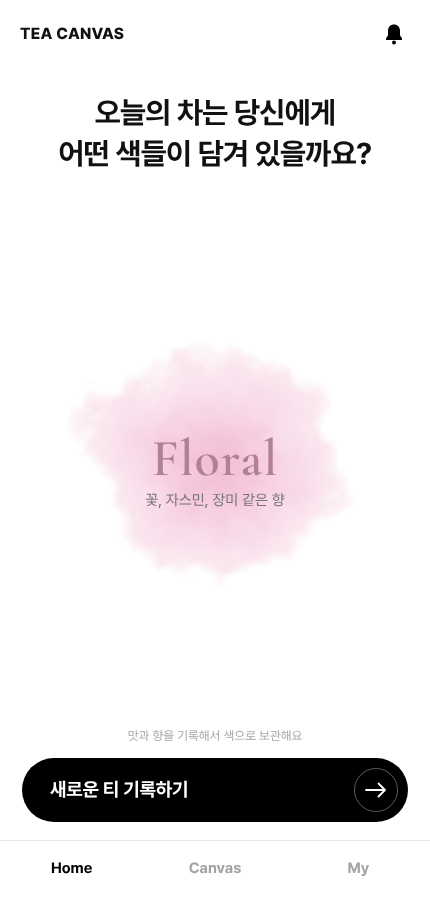
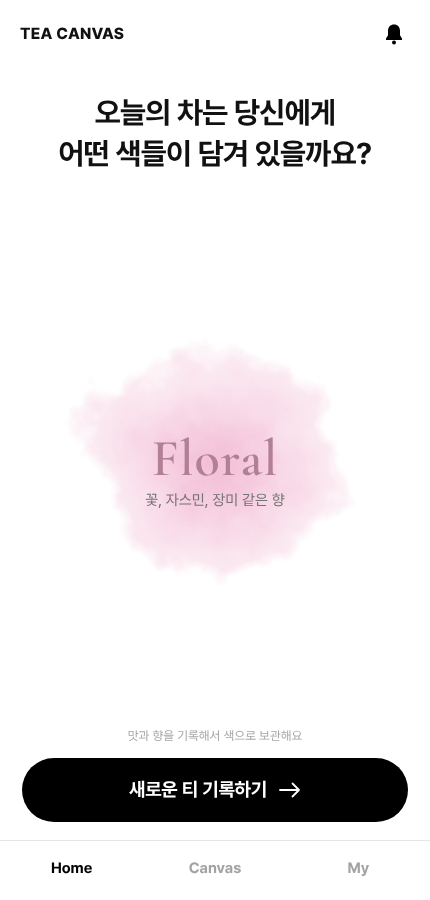
v5 home: center button label with inline arrow
Claude-Session: https://claude.ai/code/session_01VYi7RYbVTTHX5Zvyr9oi23

Changed region(s): [[0.1209, 0.8711, 0.6349, 0.9022], [0.8465, 0.8711, 0.907, 0.9022], [0.6651, 0.8711, 0.6953, 0.9022]]

diff --git a/TEA_CANVAS_prototype_v5.html b/TEA_CANVAS_prototype_v5.html
@@ -336,7 +336,8 @@ canvas.wcd.big{margin:14px auto}
 .bigbtn:hover i{transform:translateX(3px)}
 /* 둥근 버튼(알약 모양) */
 .home .bigbtn{width:auto;min-height:0;height:64px;margin:0 22px 18px;padding:0 10px 0 28px;border-radius:32px;font-size:19px}
-.home .bigbtn i{width:44px;height:44px}
+.home .bigbtn{justify-content:center;gap:12px;padding:0 24px}
+.home .bigbtn i{width:auto;height:auto;border:0;border-radius:0}
 
 /* camera button */
 .cambtn{display:flex;flex-direction:column;align-items:center;gap:6px;margin:18px auto 0;font-size:12.5px;color:#444}
